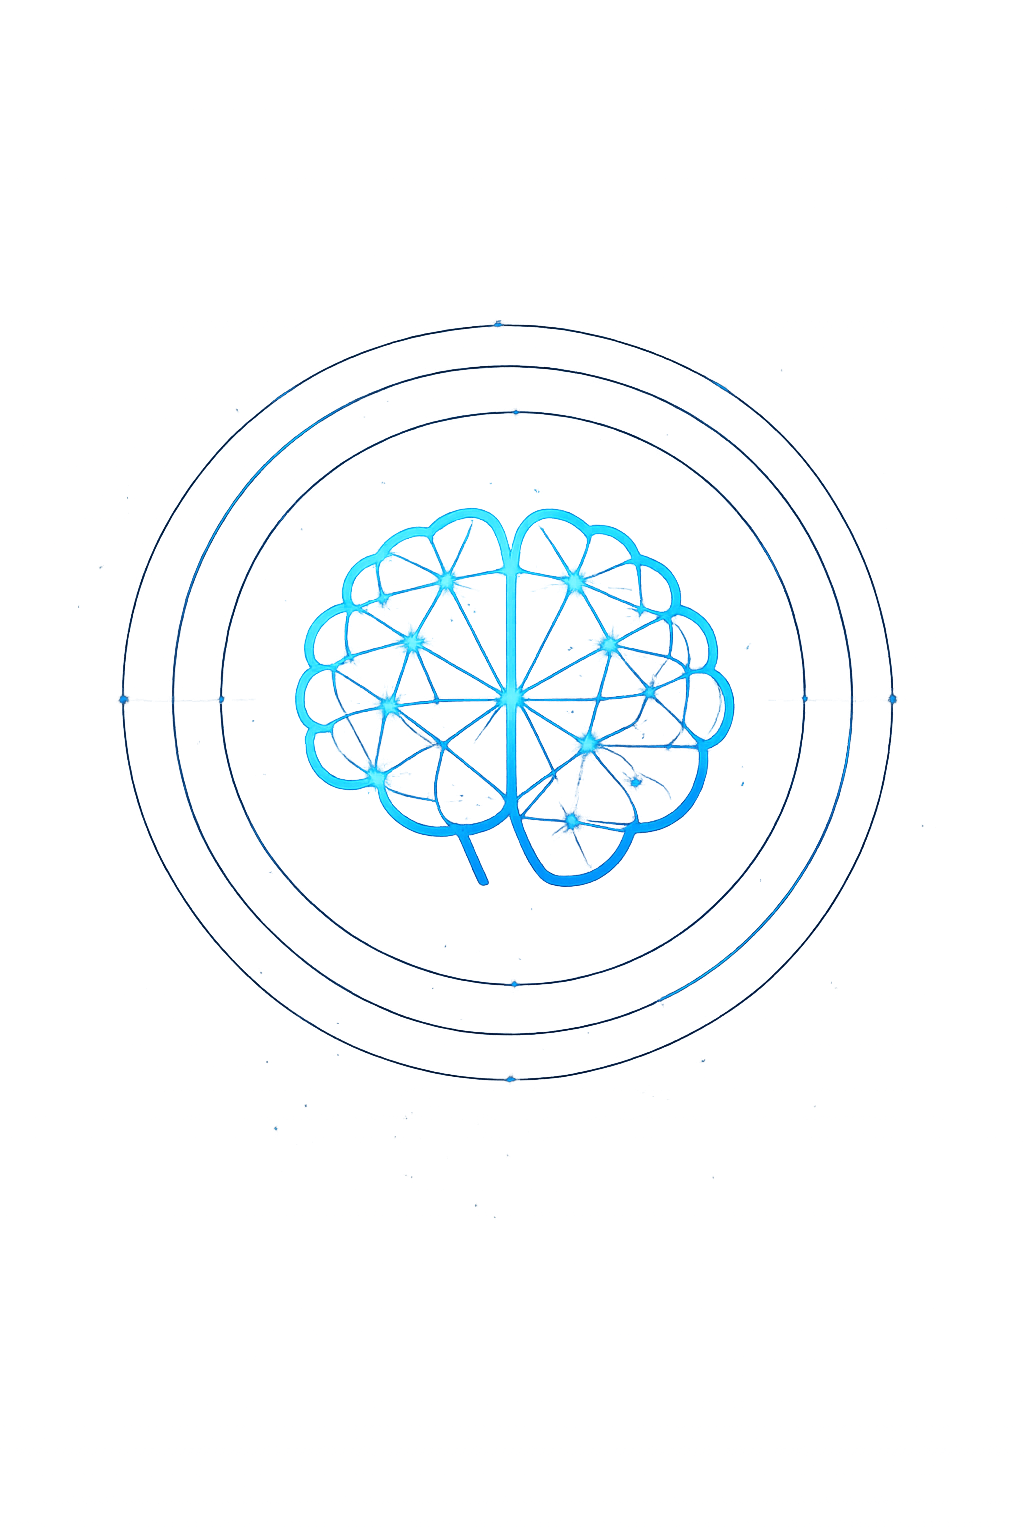
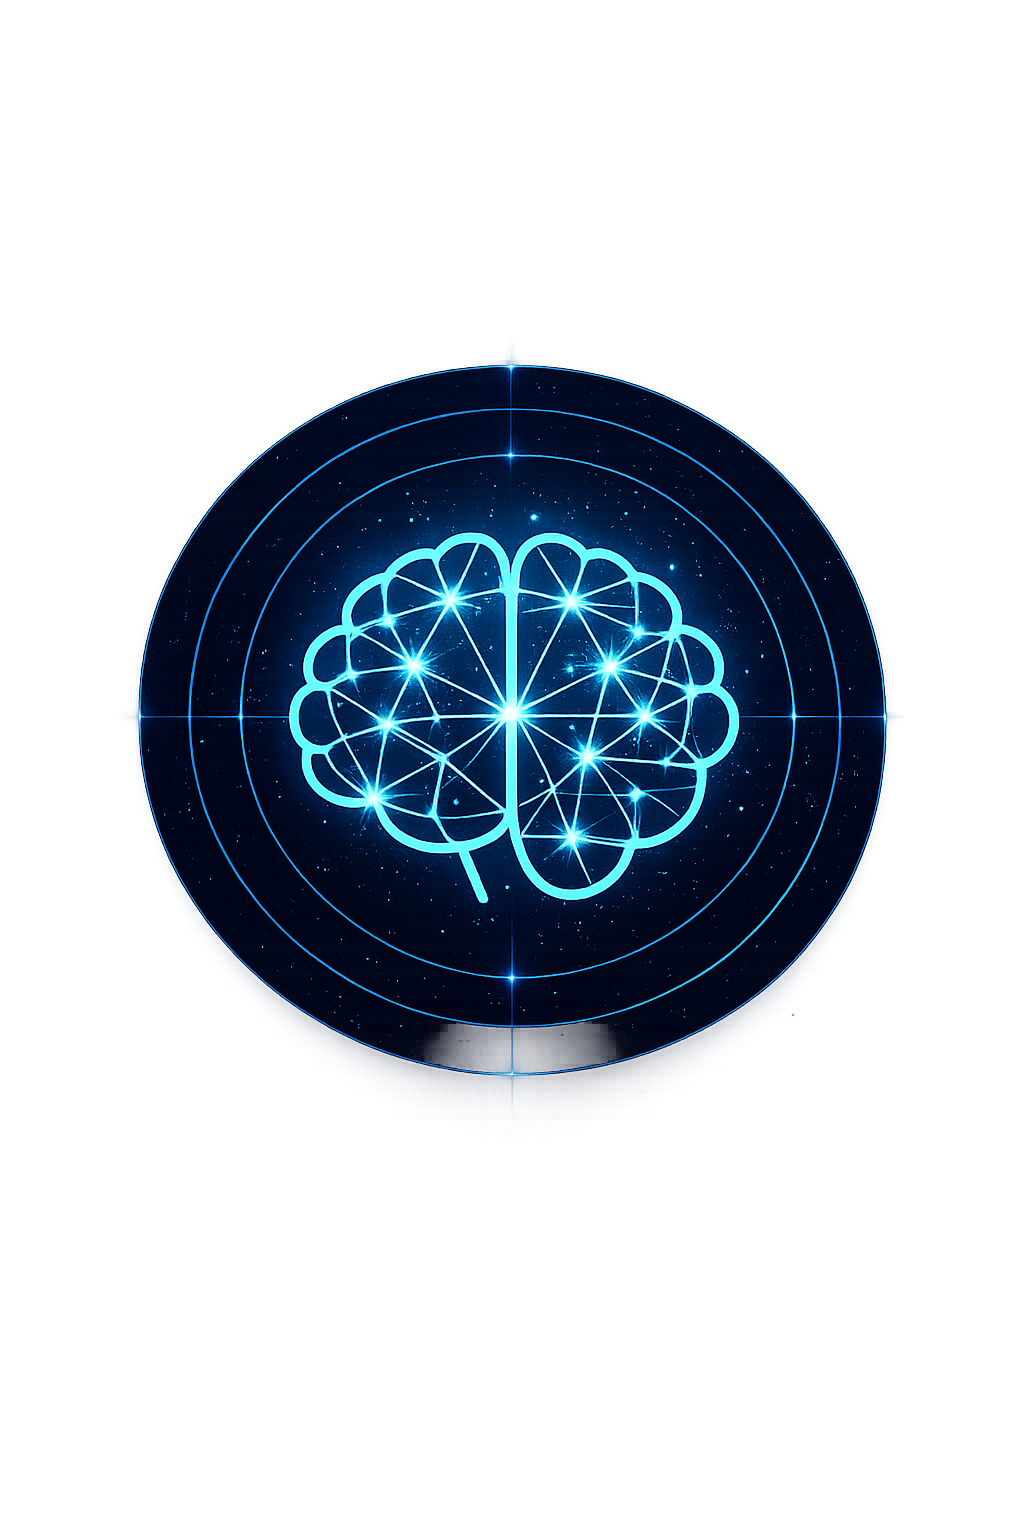
final hoje

Changed region(s): [[0.0938, 0.2188, 0.875, 0.7188]]

diff --git a/src/App.tsx b/src/App.tsx
@@ -1022,16 +1022,28 @@ if (screen === "onboarding") {
   alt="onboarding"
   style={{
     ...onboardingMockupImageStyle,
+
     width:
       introStep === 1
-        ? "20%"
+        ? "50%"
         : introStep === 2
         ? "50%"
         : "80%",
-        maxHeight: "none",
 
-    height: "auto",
-    objectFit: "contain"
+    marginTop:
+      introStep === 1
+        ? 40
+        : 0,
+
+        transform:
+        introStep === 2
+          ? "scale(2.35)"
+          : introStep === 1
+          ? "scale(2.35)"
+          : "none",
+
+    objectFit: "contain",
+    pointerEvents: "none"
   }}
 />
 </div>
@@ -1673,19 +1685,15 @@ const premiumPageStyle: React.CSSProperties = {
                       };
                       
                       const onboardingImageFrameStyle: React.CSSProperties = {
-                        flex: 1,
-                        minHeight: 0,
-                        display: "flex",
-                        justifyContent: "center",
-                        alignItems: "center",
-                        marginTop: 12,
-                        marginBottom: 8,
-                        border: "2px solid rgba(37,99,235,0.75)",
-                        borderRadius: 22,
-                        padding: 8,
-                        boxShadow: "0 0 22px rgba(37,99,235,0.22)",
-                        overflow: "hidden"
-                      };
+  flex: 1,
+  minHeight: 0,
+  display: "flex",
+  justifyContent: "center",
+  alignItems: "center",
+  marginTop: 12,
+  marginBottom: 20,
+  overflow: "hidden"
+};
                       
                       const onboardingMockupImageStyle: React.CSSProperties = {
                         width: 300,
